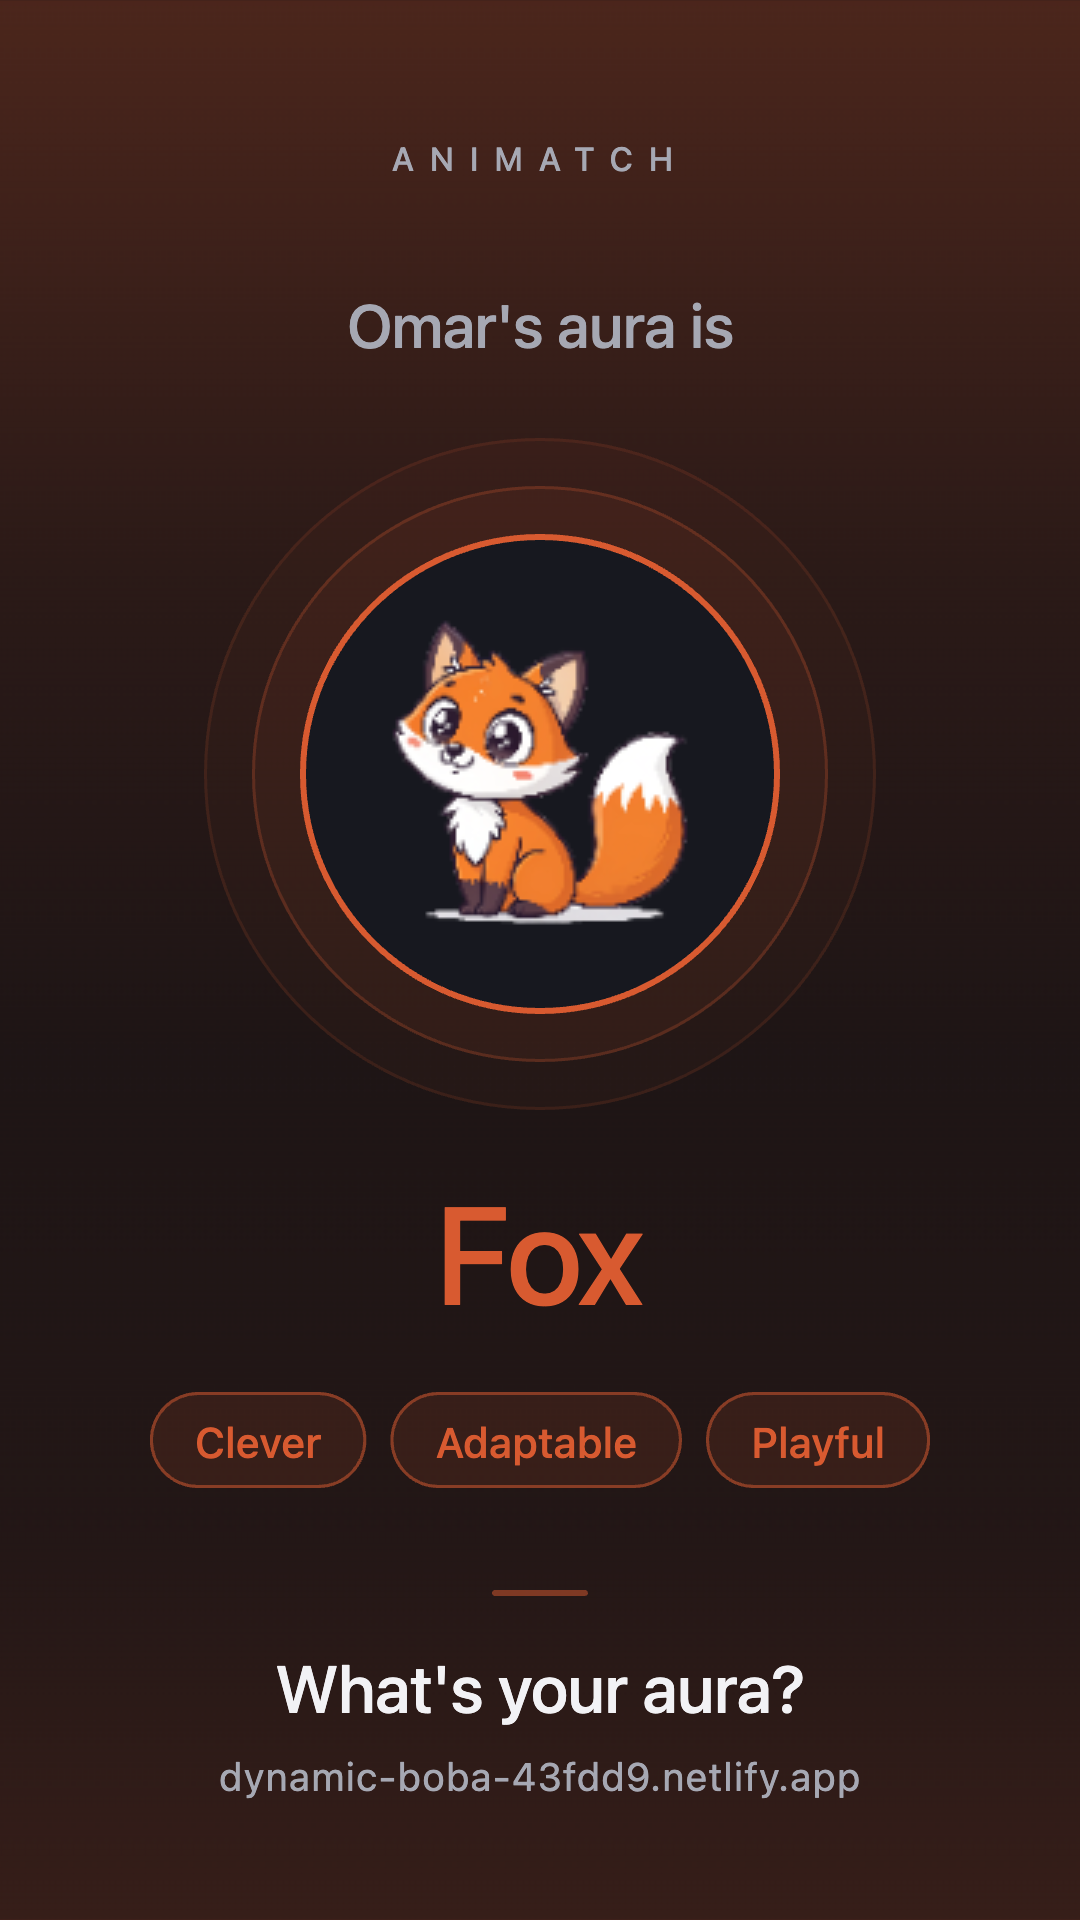
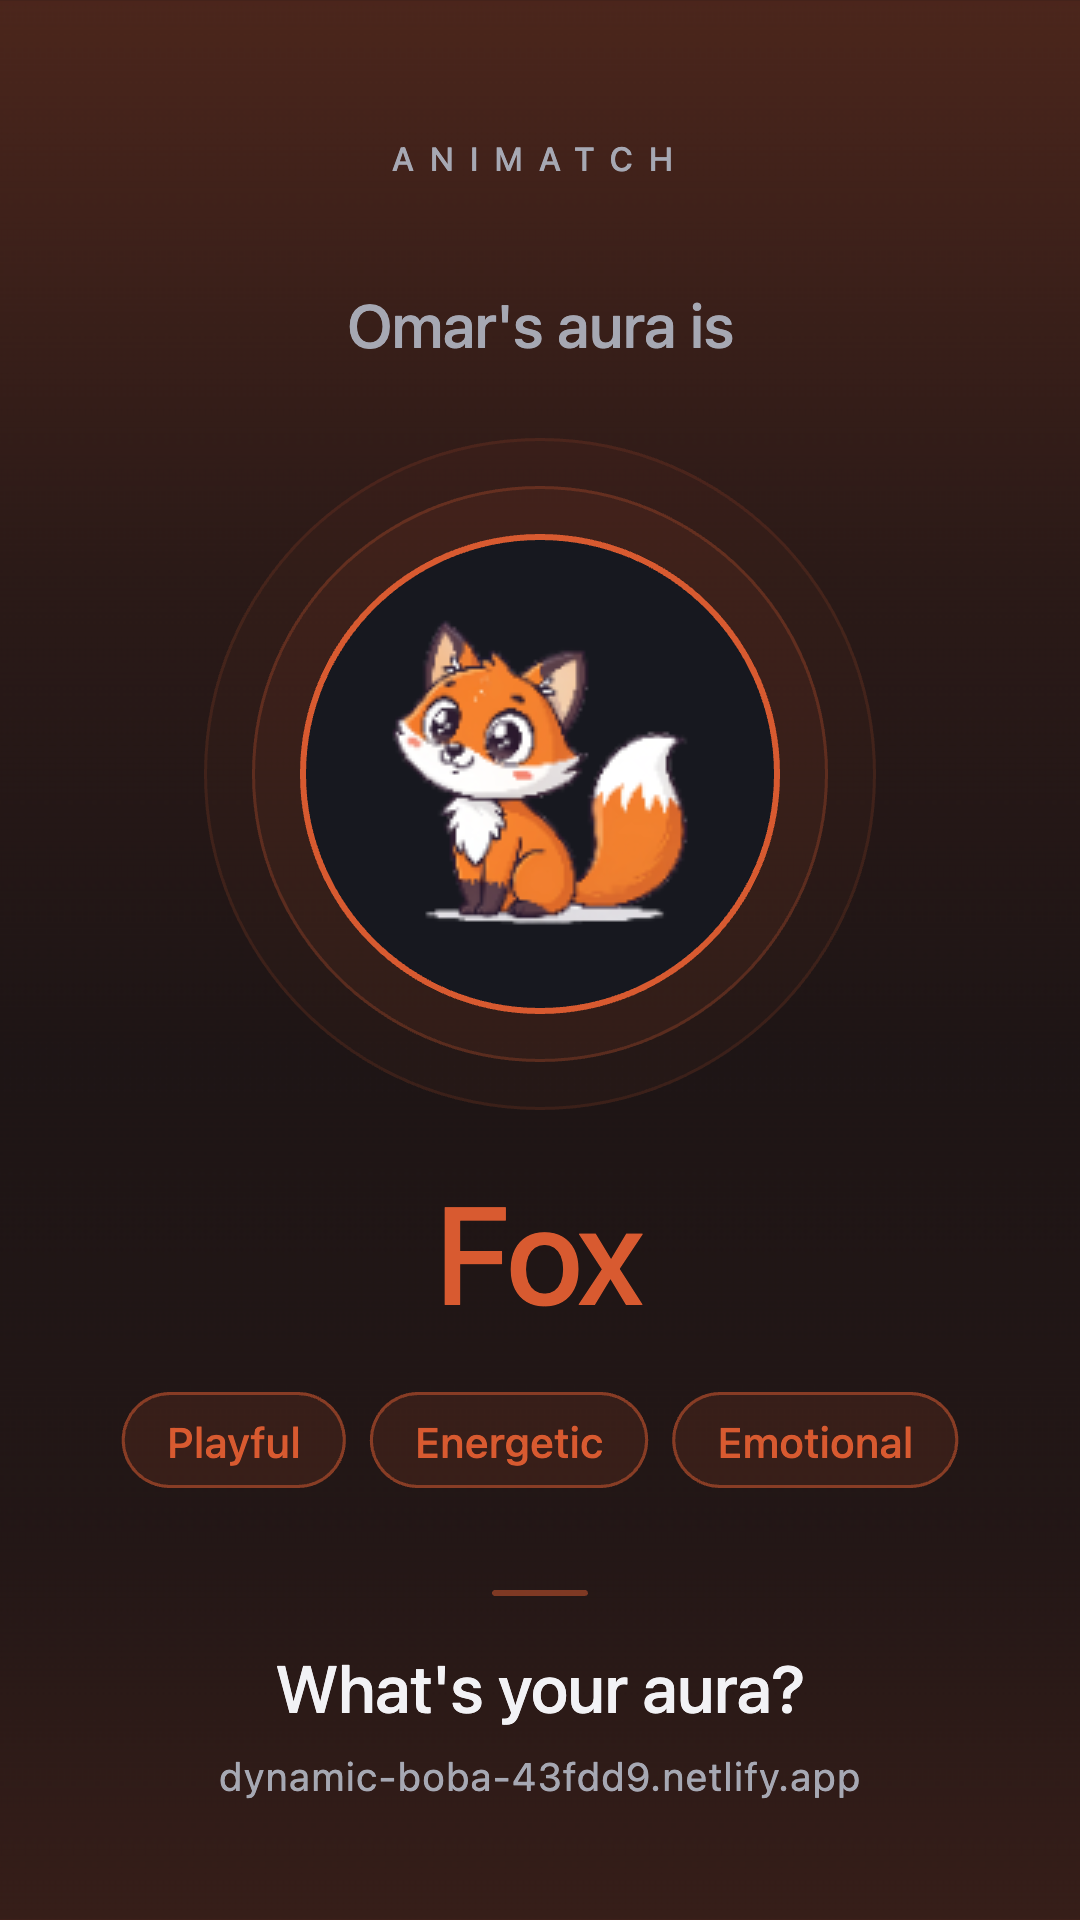
Capitalize trait chips everywhere
animal_auras.traits is one comma-separated string with mixed casing
("Playful, energetic, emotional"). A shared splitTraits() in lib/traits.ts
now trims, drops empty entries and capitalizes the first letter; the
results screen, the aura details popup and the "My aura" share card use it.
The example card in docs/share-cards is regenerated from lowercase data.

Changed region(s): [[0.1222, 0.7188, 0.8861, 0.7812]]

diff --git a/app/(tabs)/results.tsx b/app/(tabs)/results.tsx
@@ -14,6 +14,7 @@ import { ScreenBackground } from '@/components/ScreenBackground';
 import { SafeAreaView } from 'react-native-safe-area-context';
 import { supabase } from '@/lib/supabase';
 import { getFirstName } from '@/lib/compatibility';
+import { splitTraits } from '@/lib/traits';
 import { InviteModal } from '@/components/InviteModal';
 import { InviteLinkRoute } from '@/components/InviteForm';
 import { ShareCardHost } from '@/components/share/ShareCardHost';
@@ -276,16 +277,16 @@ export default function ResultsScreen() {
                   <ThemedText style={styles.sectionTitle}>Key traits</ThemedText>
                 </View>
                 <View style={styles.traitsContainer}>
-                  {animalAura.traits.split(',').map((trait, index) => (
-                    <View 
-                      key={index} 
+                  {splitTraits(animalAura.traits).map((trait, index) => (
+                    <View
+                      key={index}
                       style={[
                         styles.traitBadge, 
                         { borderColor: withAlpha(auraColor, 0.45), backgroundColor: withAlpha(auraColor, 0.1) }
                       ]}
                     >
                       <ThemedText style={[styles.traitText, { color: auraColor }]}>
-                        {trait.trim()}
+                        {trait}
                       </ThemedText>
                     </View>
                   ))}

diff --git a/components/share/AuraShareCard.tsx b/components/share/AuraShareCard.tsx
@@ -2,6 +2,7 @@ import React from 'react';
 import { StyleSheet, Text, View } from 'react-native';
 import { AuraAvatar } from '@/components/AuraAvatar';
 import { Colors, getAuraColor, withAlpha } from '@/constants/Colors';
+import { splitTraits } from '@/lib/traits';
 import { ShareCardFrame } from './ShareCardFrame';
 
 interface AuraShareCardProps {
@@ -12,13 +13,9 @@ interface AuraShareCardProps {
   traits: string;
 }
 
-/** Up to 3 trimmed, non-empty traits. */
+/** The first 3 traits, capitalized. */
 function getTopTraits(traits: string): string[] {
-  return traits
-    .split(',')
-    .map(trait => trait.trim())
-    .filter(Boolean)
-    .slice(0, 3);
+  return splitTraits(traits).slice(0, 3);
 }
 
 /** "My aura" story card. */

diff --git a/components/AuraDetailsModal.tsx b/components/AuraDetailsModal.tsx
@@ -11,6 +11,7 @@ import {
 import { Ionicons } from '@expo/vector-icons';
 import { useSafeAreaInsets } from 'react-native-safe-area-context';
 import { ThemedView } from './ThemedView';
+import { splitTraits } from '@/lib/traits';
 import { ThemedText } from './ThemedText';
 import { useThemeColor } from '@/hooks/useThemeColor';
 import { AuraAvatar } from './AuraAvatar';
@@ -48,13 +49,6 @@ function reducer(state: State, action: Action): State {
     default:
       return state;
   }
-}
-
-function splitTraits(traits: string): string[] {
-  return traits
-    .split(',')
-    .map(trait => trait.trim())
-    .filter(Boolean);
 }
 
 export function AuraDetailsModal({ aura, onClose }: AuraDetailsModalProps) {

diff --git a/lib/traits.ts b/lib/traits.ts
@@ -1,0 +1,17 @@
+/** "energetic" -> "Energetic". Only the first letter changes. */
+export function capitalizeFirst(text: string): string {
+  return text.charAt(0).toUpperCase() + text.slice(1);
+}
+
+/**
+ * Splits `animal_auras.traits` (one comma-separated string) into chip labels:
+ * trimmed, empty entries dropped, first letter capitalized.
+ */
+export function splitTraits(traits: string | null | undefined): string[] {
+  if (!traits) return [];
+  return traits
+    .split(',')
+    .map(trait => trait.trim())
+    .filter(Boolean)
+    .map(capitalizeFirst);
+}
